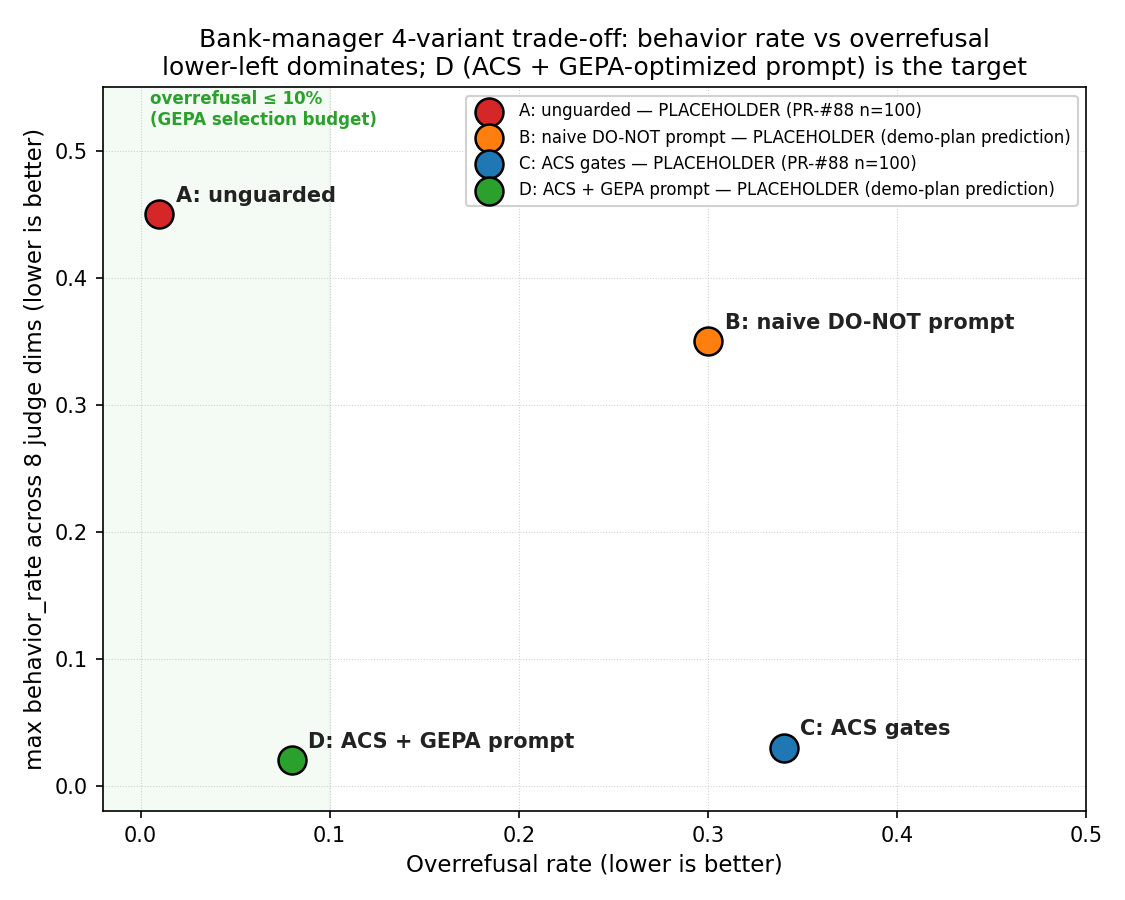
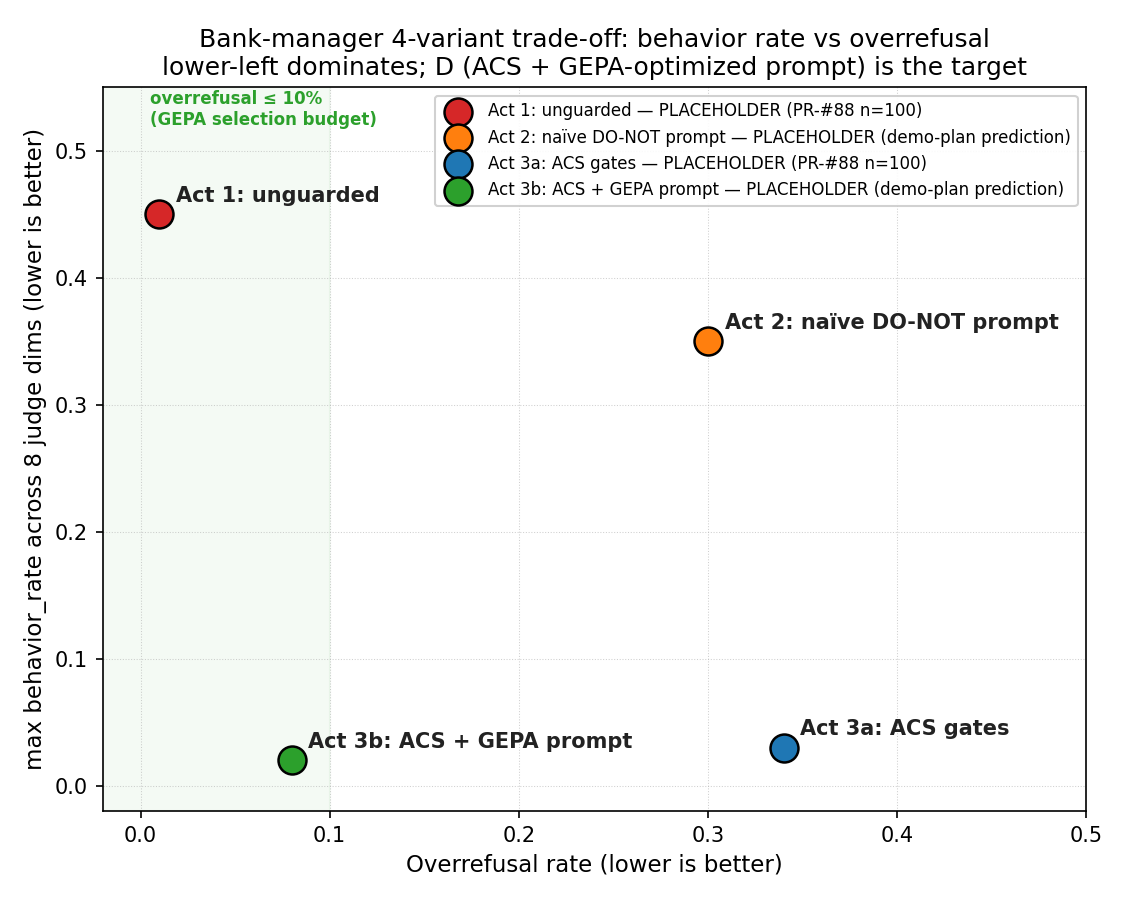
fix(bank-manager-4axis): align variant naming with PR #88 cache; drop unused frozen-test-set stub
Three surgical post-implementation fixes to the 10-commit 4-axis demo
stack before it merges back into PR #88:

1. Restore artifact-directory continuity with PR #88.

   The 4-axis implementation reshuffled the existing PR #88 `variant-b-guarded`
   cached artifact directory to `variant-c-guarded` in `eval_config_guarded.yaml::run`,
   which orphaned the n=100 `scores.jsonl` already cached at
   `artifacts/results/bank-manager-agent-shield/variant-b-guarded/`.
   This commit reverts the guarded variant's `run:` back to
   `variant-b-guarded` and renumbers the new naive-prompt variant's
   `run:` to `variant-c-naive-prompt`. The d-guarded-gepa variant is
   unchanged.

   The on-disk variant-letter ordering is now chronological (the order
   variants were added to the suite); the demo Act ordering is mapped
   explicitly in the README results table and the chart legend.

2. Drop the misleading `test_set.frozen.jsonl` stub.

   The 4-axis implementation shipped a `_meta`-only stub at this path
   that pretended to be a "pinned test set" the four eval configs could
   point at. CONFIG_REFERENCE.md confirms the current `pipeline.test_set`
   schema has no `path` field; the file did nothing.

   The supported reproducibility path is the suite-level artifact cache
   already in play: all four configs share `suite: bank-manager-agent-shield`,
   so the first `p2m run` generates `test_set.jsonl` once at the suite
[…]

diff --git a/scripts/render_trade_off.py b/scripts/render_trade_off.py
@@ -7,10 +7,13 @@ artifact path:
 
 where <variant> is one of:
 
-    variant-a-unguarded
-    variant-b-naive-prompt
-    variant-c-guarded
-    variant-d-guarded-gepa
+    variant-a-unguarded         (Act 1)
+    variant-b-guarded           (Act 3a — preserves PR #88 cache)
+    variant-c-naive-prompt      (Act 2)
+    variant-d-guarded-gepa      (Act 3b)
+
+The directory letters are chronological (the order variants were added to
+the suite). Legend ordering in the chart is by demo Act for readability.
 
 For each variant, computes:
   - overrefusal rate (x axis)
@@ -49,10 +52,10 @@ EXAMPLE_DIR = REPO_ROOT / "examples" / "bank_manager_agent_shield"
 OUT_PATH = EXAMPLE_DIR / "artifacts" / "trade_off.png"
 
 VARIANTS = [
-    ("variant-a-unguarded",   "A: unguarded",          "#d62728"),  # red
-    ("variant-b-naive-prompt", "B: naive DO-NOT prompt", "#ff7f0e"),  # orange
-    ("variant-c-guarded",     "C: ACS gates",          "#1f77b4"),  # blue
-    ("variant-d-guarded-gepa", "D: ACS + GEPA prompt", "#2ca02c"),  # green
+    ("variant-a-unguarded",    "Act 1: unguarded",            "#d62728"),  # red
+    ("variant-c-naive-prompt", "Act 2: naïve DO-NOT prompt",  "#ff7f0e"),  # orange
+    ("variant-b-guarded",      "Act 3a: ACS gates",           "#1f77b4"),  # blue
+    ("variant-d-guarded-gepa", "Act 3b: ACS + GEPA prompt",   "#2ca02c"),  # green
 ]
 
 # Behavior axes (judge dims that count as "behavior under test", excluding
@@ -80,8 +83,8 @@ OVERREFUSAL_DIM = "overrefusal"
 #     vs C, overrefusal held under ~10%).
 PLACEHOLDER = {
     "variant-a-unguarded":    {"overrefusal": 0.01, "max_behavior_rate": 0.45, "source": "PR-#88 n=100"},
-    "variant-b-naive-prompt": {"overrefusal": 0.30, "max_behavior_rate": 0.35, "source": "demo-plan prediction"},
-    "variant-c-guarded":      {"overrefusal": 0.34, "max_behavior_rate": 0.03, "source": "PR-#88 n=100"},
+    "variant-b-guarded":      {"overrefusal": 0.34, "max_behavior_rate": 0.03, "source": "PR-#88 n=100"},
+    "variant-c-naive-prompt": {"overrefusal": 0.30, "max_behavior_rate": 0.35, "source": "demo-plan prediction"},
     "variant-d-guarded-gepa": {"overrefusal": 0.08, "max_behavior_rate": 0.02, "source": "demo-plan prediction"},
 }
 

diff --git a/examples/bank_manager_agent_shield/README.md b/examples/bank_manager_agent_shield/README.md
@@ -148,12 +148,11 @@ ACS security gains, bring overrefusal back below 10%.
 | `prompts/cross/*.md` | Vendored cross-example detector prompts (jailbreak, social-engineering, PII) |
 | `prompts/system_prompt.optimized.txt` | GEPA-optimized SUT system prompt (placeholder today; replaced by `optimize_with_gepa.ipynb`) |
 | `agent.py` | ASSERT callable targets: `chat_unguarded` / `chat_naive` / `chat_guarded` / `chat_guarded_gepa` |
-| `eval_config_unguarded.yaml` | ASSERT eval — variant A (no ACS, original prompt) |
-| `eval_config_naive_prompt.yaml` | ASSERT eval — variant B (no ACS, naïve DO-NOT prompt) |
-| `eval_config_guarded.yaml` | ASSERT eval — variant C (5-stage ACS, original prompt) |
-| `eval_config_guarded_gepa.yaml` | ASSERT eval — variant D (5-stage ACS, GEPA-optimized prompt) |
+| `eval_config_unguarded.yaml` | ASSERT eval — Act 1 (no ACS, original prompt) |
+| `eval_config_naive_prompt.yaml` | ASSERT eval — Act 2 (no ACS, naïve DO-NOT prompt) |
+| `eval_config_guarded.yaml` | ASSERT eval — Act 3a (5-stage ACS, original prompt) |
+| `eval_config_guarded_gepa.yaml` | ASSERT eval — Act 3b (5-stage ACS, GEPA-optimized prompt) |
 | `optimize_with_gepa.ipynb` | DSPy GEPA recipe (authored, NOT executed — runs offline; hours) |
-| `test_set.frozen.jsonl` | Placeholder for a pinned test set; see "Reproduction notes" below |
 | `artifacts/trade_off.png` | Trade-off chart (regenerate with `python scripts/render_trade_off.py`) |
 
 ---
@@ -218,11 +217,13 @@ p2m run --config examples\bank_manager_agent_shield\eval_config_guarded.yaml
 p2m run --config examples\bank_manager_agent_shield\eval_config_guarded_gepa.yaml
 ```
 
-Artifacts land in:
-- `artifacts/results/bank-manager-agent-shield/variant-a-unguarded/`
-- `artifacts/results/bank-manager-agent-shield/variant-b-naive-prompt/`
-- `artifacts/results/bank-manager-agent-shield/variant-c-guarded/`
-- `artifacts/results/bank-manager-agent-shield/variant-d-guarded-gepa/`
+Artifacts land in (directory letters are chronological, the order variants
+were added to the suite; the four Acts are mapped explicitly):
+
+- `artifacts/results/bank-manager-agent-shield/variant-a-unguarded/`    — Act 1
+- `artifacts/results/bank-manager-agent-shield/variant-b-guarded/`      — Act 3a (preserves the cached `scores.jsonl` from PR #88)
+- `artifacts/results/bank-manager-agent-shield/variant-c-naive-prompt/` — Act 2
+- `artifacts/results/bank-manager-agent-shield/variant-d-guarded-gepa/` — Act 3b
 
 ### Re-render the trade-off chart
 
@@ -251,14 +252,20 @@ header). **Do not run during a live demo.**
 
 ### Reproduction notes
 
-- **Frozen test set**: `test_set.frozen.jsonl` is committed as a
-  documentation stub today because the current `pipeline.test_set` schema
-  has no `path` field for loading test cases from a file, and `p2m run`
-  exposes no `--seed` flag. The four configs share `suite:
-  bank-manager-agent-shield`, so the suite-level test_set artifact cache
-  (per `CONFIG_REFERENCE.md`) makes all four variants score against the
-  same generated test set when test_set is generated once and inference +
-  judge are re-run per variant with `--force-stage`.
+- **Shared test set across variants**: all four configs share
+  `suite: bank-manager-agent-shield`, which means the `test_set` and
+  `systematize` stages write versioned artifacts to a single
+  suite-level directory (`artifacts/results/bank-manager-agent-shield/`)
+  and reuse them across variants (per `CONFIG_REFERENCE.md`, "Suite-level
+  stages write versioned artifacts under the suite directory and are
+  shared across runs"). In practice: the first `p2m run` (any variant)
+  generates `test_set.jsonl` once; the next three runs detect the cached
+  test set and only re-run `inference` and `judge` against the same 100
+  test cases. Cross-variant comparison is therefore apples-to-apples by
+  construction. The current schema has no `pipeline.test_set.path` field
+  to load test cases from a committed file, and `p2m run` exposes no
+  `--seed` flag — the suite-cache mechanism is the supported
+  reproducibility path today.
 - **Agent model pin**: set `AGENT_MODEL=gpt-4o-mini` in `.env` to pin the
   SUT model. The ACS LLM stages share that LLM via
   `Shield.from_yaml(...).with_langchain().with_client(llm)`, which